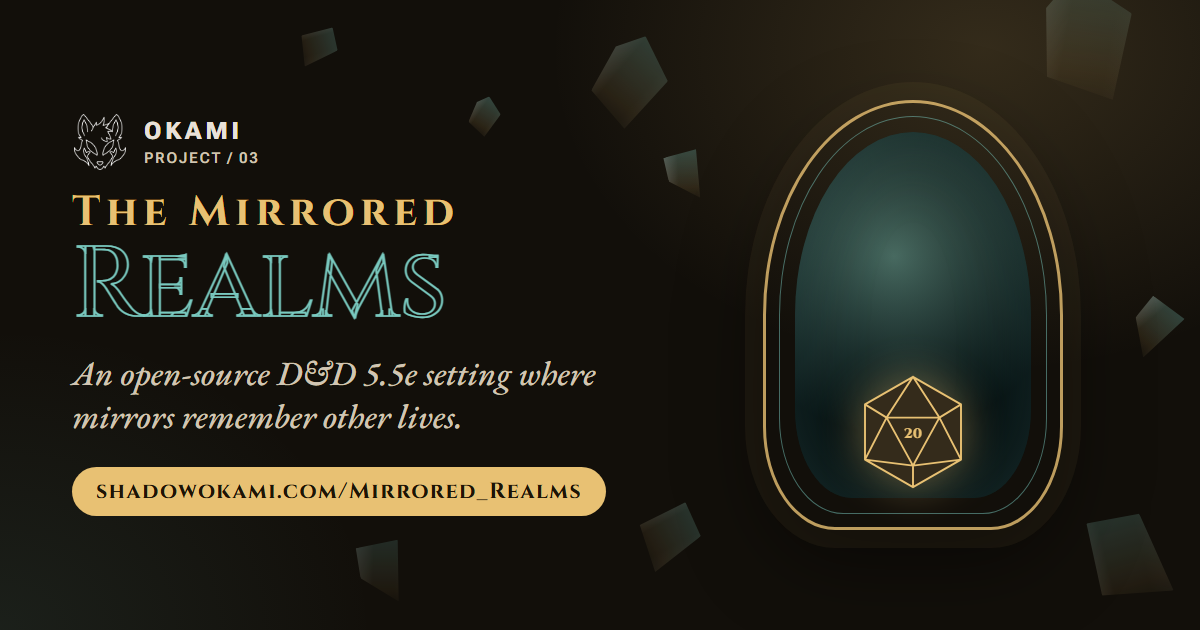
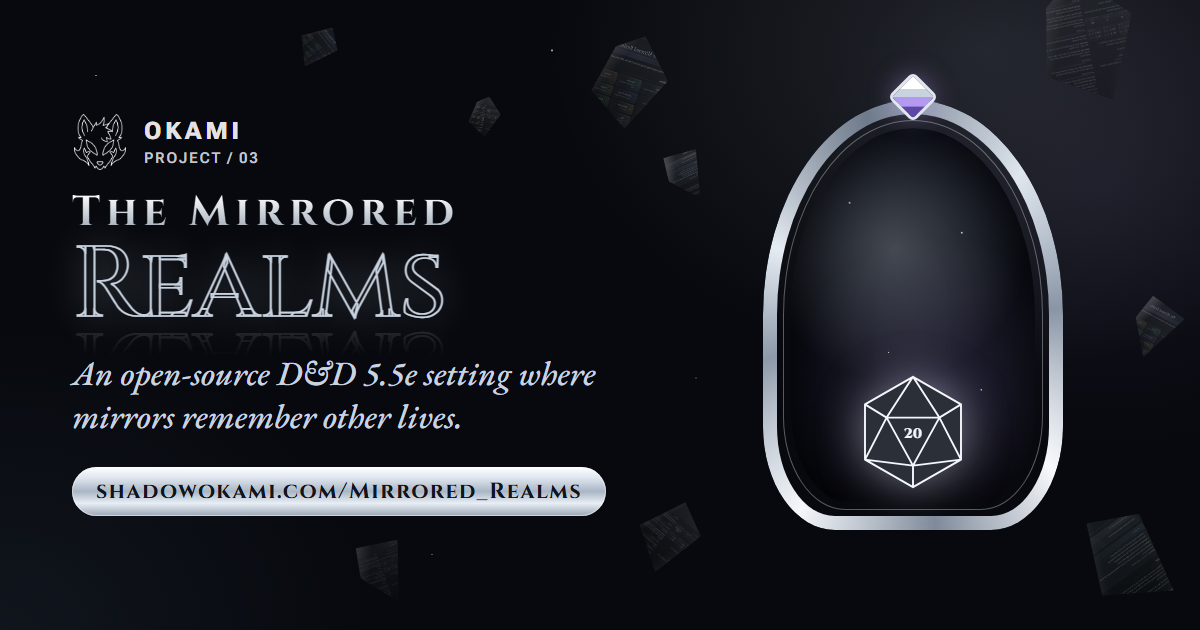
Homepage: The Mirrored Realms card and share image in brushed silver
The project card now shows the silver standing mirror with its crown gem, an endless corridor in the glass, a crack on hover and shards that reflect the vault, with a silver wordmark, badge and button, an extra line about Atlas VTT and Mirrored Pages, and an Atlas VTT tag. The og-realms share image is rebuilt in the same look.

diff --git a/assets/css/home.css b/assets/css/home.css
@@ -196,7 +196,7 @@
 .project:nth-of-type(odd) .project-media { order: 2; }
 .project:hover { border-radius: var(--shape-xl-inc); background: var(--md-sys-color-surface-container-high); }
 .project-luna { --project-accent: #ff85d2; --project-on-accent: #3b0030; }
-.project-mirrorgate { --project-accent: #c9a55a; --project-on-accent: #2b1d00; }
+.project-mirrorgate { --project-accent: #c9d3e0; --project-on-accent: #10141c; }
 
 .project-media {
     isolation: isolate;
@@ -264,15 +264,95 @@
 .luna-media { display: grid; place-items: center; background: radial-gradient(circle at 50% 42%, rgb(255 145 219 / .25), transparent 32%), linear-gradient(145deg, #150d1a, #26142b); }
 .luna-media > img { width: min(66%, 300px); height: auto; object-fit: contain; filter: drop-shadow(0 22px 40px rgb(255 128 203 / .16)); }
 .project:hover .luna-media > img { transform: scale(1.06) rotate(-3deg); }
-.mirrorgate-media { background: radial-gradient(circle at 65% 48%, rgb(79 178 167 / .18), transparent 24%), linear-gradient(135deg, #0d1212, #16110c 70%); }
+/* The Mirrored Realms: a standing mirror in brushed silver under a night
+   sky, with shards drifting past that still reflect pieces of the vault. */
+.mirrorgate-media {
+    background:
+        radial-gradient(1px 1px at 12% 18%, #fff, transparent), radial-gradient(1px 1px at 30% 62%, rgb(255 255 255 / .7), transparent),
+        radial-gradient(1.4px 1.4px at 48% 12%, #fff, transparent), radial-gradient(1px 1px at 88% 22%, rgb(220 228 255 / .8), transparent),
+        radial-gradient(1px 1px at 92% 78%, rgb(255 255 255 / .6), transparent), radial-gradient(1px 1px at 20% 84%, rgb(255 255 255 / .5), transparent),
+        radial-gradient(circle at 64% 44%, rgb(201 211 224 / .16), transparent 30%),
+        radial-gradient(circle at 70% 60%, rgb(179 154 240 / .1), transparent 36%),
+        linear-gradient(135deg, #0b0e15, #06070b 70%);
+}
 .mirror-card-art { position: absolute; inset: 0; z-index: 2; }
-.mirror-card-orbit { position: absolute; top: 46%; left: 64%; width: 52%; aspect-ratio: 1; border: 1px solid rgb(145 207 198 / .28); border-radius: 50%; transform: translate(-50%, -50%) rotate(-14deg) scaleY(.36); }
-.mirror-card-door { position: absolute; top: 46%; left: 64%; width: 23%; aspect-ratio: .68; border: 2px solid #d2b36f; border-radius: 50% 50% 24% 24%; background: radial-gradient(circle at 48% 40%, rgb(94 199 185 / .35), #071113 68%); box-shadow: 0 0 0 18px rgb(210 179 111 / .035), 0 0 70px rgb(94 199 185 / .12); transform: translate(-50%, -50%); transition: box-shadow var(--spring-slow-duration) var(--spring-slow); }
-.project:hover .mirror-card-door { box-shadow: 0 0 0 26px rgb(210 179 111 / .06), 0 0 90px rgb(94 199 185 / .25); }
-.mirror-card-door i { position: absolute; top: 50%; left: 52%; width: 6px; height: 6px; border-radius: 50%; background: #f0dca9; box-shadow: 0 0 16px #f0dca9; }
-.mirror-card-wordmark { position: absolute; bottom: 22px; left: 22px; display: grid; width: min(72%, 560px); }
-.mirror-card-wordmark small { color: #91cfc6; font-size: .72rem; font-weight: 650; letter-spacing: .1em; text-transform: uppercase; }
-.mirror-card-wordmark strong { margin-top: 6px; color: #f3e6c4; font: 500 clamp(2rem, 4vw, 3.8rem)/.95 "Palatino Linotype", Georgia, serif; letter-spacing: -.005em; text-wrap: balance; }
+.mirror-card-door { position: absolute; top: 44%; left: 66%; width: 22%; aspect-ratio: .68; transform: translate(-50%, -50%); transition: transform var(--spring-slow-duration) var(--spring-slow); }
+.project:hover .mirror-card-door { transform: translate(-50%, -52%) scale(1.03); }
+/* the frame: a ring of brushed silver */
+.mirror-card-door::before {
+    position: absolute;
+    inset: 0;
+    padding: 7px;
+    border-radius: 50% 50% 24% 24%;
+    content: "";
+    background: conic-gradient(from 210deg, #f4f7fb, #8d99a9 12%, #e6ecf3 24%, #6f7b8b 38%, #dfe6ee 52%, #8995a5 66%, #f7f9fc 80%, #7f8b9b 90%, #f4f7fb);
+    -webkit-mask: linear-gradient(#000 0 0) content-box exclude, linear-gradient(#000 0 0);
+    mask: linear-gradient(#000 0 0) content-box exclude, linear-gradient(#000 0 0);
+    filter: drop-shadow(0 0 16px rgb(201 211 224 / .4));
+}
+.mcd-glass {
+    position: absolute;
+    inset: 11px;
+    overflow: hidden;
+    border-radius: 50% 50% 22% 22%;
+    background:
+        radial-gradient(1px 1px at 30% 24%, #fff, transparent), radial-gradient(1px 1px at 70% 30%, #fff, transparent), radial-gradient(1px 1px at 52% 70%, rgb(255 255 255 / .7), transparent),
+        radial-gradient(circle at 42% 34%, rgb(201 211 224 / .3), transparent 46%),
+        radial-gradient(circle at 60% 72%, rgb(179 154 240 / .2), transparent 52%),
+        linear-gradient(180deg, #0e131d, #05060b);
+    box-shadow: inset 0 0 40px rgb(0 0 0 / .7);
+}
+/* an endless corridor of doors inside the glass */
+.mcd-glass i { position: absolute; inset: 0; margin: auto; width: var(--d); height: var(--d); border: 1px solid rgb(201 211 224 / .3); border-radius: 50% 50% 24% 24%; opacity: var(--o); }
+.mcd-glass i:nth-child(1) { --d: 74%; --o: .6; }
+.mcd-glass i:nth-child(2) { --d: 50%; --o: .38; }
+.mcd-glass i:nth-child(3) { --d: 28%; --o: .2; }
+.mcd-glass svg { position: absolute; inset: 0; width: 100%; height: 100%; fill: none; stroke: #f4f7fb; stroke-width: .9; stroke-linecap: round; opacity: 0; filter: drop-shadow(0 0 2px #fff); transition: opacity 500ms var(--effects); }
+.project:hover .mcd-glass svg { opacity: .75; }
+/* a sheen sweeps the glass on hover */
+.mcd-glass::after { position: absolute; inset: 0; content: ""; background: linear-gradient(115deg, transparent 35%, rgb(255 255 255 / .16) 48%, transparent 58%); transform: translateX(-110%); transition: transform 1200ms var(--effects); }
+.project:hover .mcd-glass::after { transform: translateX(110%); }
+.mcd-crown { position: absolute; top: -11px; left: 50%; width: 18px; height: 18px; translate: -50% 0; rotate: 45deg; border-radius: 2px; background: linear-gradient(135deg, #fff 0 30%, #c9d3e0 31% 50%, #b39af0 51% 72%, #5f47a8 73%); box-shadow: 0 0 0 2px #dfe6ee, 0 0 18px rgb(179 154 240 / .55); }
+.mcd-stud { position: absolute; top: 52%; width: 8px; height: 8px; rotate: 45deg; background: linear-gradient(135deg, #fff 0 45%, #8d99a9 46%); box-shadow: 0 0 8px rgb(201 211 224 / .6); }
+.mcd-stud-l { left: -4px; }
+.mcd-stud-r { right: -4px; }
+/* shards of the broken mirror, still showing the vault */
+.mirror-card-shards i {
+    position: absolute;
+    width: var(--s);
+    height: calc(var(--s) * 1.3);
+    background:
+        linear-gradient(112deg, rgb(255 255 255 / .45), transparent 30%, transparent 70%, rgb(255 255 255 / .15)),
+        linear-gradient(200deg, rgb(201 211 224 / .18), rgb(5 7 12 / .35)),
+        url("../images/realms/reflections.webp") var(--x) var(--y) / 400% 200% no-repeat;
+    clip-path: polygon(38% 0, 100% 22%, 78% 100%, 0 64%);
+    opacity: .7;
+    animation: card-shard 9s ease-in-out infinite alternate;
+}
+.mirror-card-shards i:nth-child(1) { --s: 58px; --x: 0%; --y: 0%; top: 14%; left: 40%; rotate: -18deg; }
+.mirror-card-shards i:nth-child(2) { --s: 40px; --x: 66.667%; --y: 0%; top: 64%; left: 44%; rotate: 24deg; animation-delay: -3s; clip-path: polygon(50% 0, 100% 38%, 62% 100%, 0 72%, 14% 20%); }
+.mirror-card-shards i:nth-child(3) { --s: 50px; --x: 33.333%; --y: 100%; top: 18%; left: 84%; rotate: 32deg; animation-delay: -5s; clip-path: polygon(12% 0, 100% 10%, 58% 100%, 0 46%); }
+.mirror-card-shards i:nth-child(4) { --s: 30px; --x: 100%; --y: 100%; top: 70%; left: 86%; rotate: -12deg; animation-delay: -1s; }
+.mirror-card-shards i:nth-child(5) { --s: 24px; --x: 0%; --y: 100%; top: 8%; left: 62%; rotate: 50deg; animation-delay: -7s; clip-path: polygon(64% 0, 100% 58%, 30% 100%, 0 28%); }
+@keyframes card-shard { to { translate: 0 -12px; rotate: calc(var(--r, 0deg) + 8deg); } }
+.mirror-card-wordmark { position: absolute; bottom: 30px; left: 24px; display: grid; width: min(72%, 560px); }
+.mirror-card-wordmark small { color: #9aa6b4; font-size: .72rem; font-weight: 650; letter-spacing: .14em; text-transform: uppercase; }
+.mirror-card-wordmark strong {
+    margin-top: 6px;
+    font: 500 clamp(2rem, 4vw, 3.8rem)/.95 "Palatino Linotype", Georgia, serif;
+    letter-spacing: -.005em;
+    text-wrap: balance;
+    color: #f4f7fb;
+    background: linear-gradient(180deg, #ffffff 0%, #e3e9f1 40%, #9aa6b4 100%);
+    -webkit-background-clip: text;
+    background-clip: text;
+    -webkit-text-fill-color: transparent;
+    -webkit-box-reflect: below -.1em linear-gradient(transparent 62%, rgb(0 0 0 / .18));
+}
+.project-mirrorgate .project-open { color: #10141c; background: linear-gradient(180deg, #ffffff 0%, #dfe6ef 22%, #aab6c5 50%, #e8eef5 74%, #9aa6b4 100%); box-shadow: inset 0 0 0 1px rgb(255 255 255 / .4), 0 8px 24px -8px rgb(201 211 224 / .6); }
+.project-mirrorgate .project-number { color: #10141c; background: linear-gradient(150deg, #fff 0 22%, #d5dde7 23% 50%, #9eaabb 51% 100%); }
+.project-mirrorgate .project-extra { margin-top: -6px; color: var(--muted); font-size: .95rem; }
+@media (prefers-reduced-motion: reduce) { .mirror-card-shards i { animation: none; } }
 
 /* ─── Contact ────────────────────────────────────────────────────────────── */
 

diff --git a/tools/og-card.html b/tools/og-card.html
@@ -83,30 +83,51 @@
         .luna-page .main { clip-path: var(--shape-cookie6); transform: none; }
         .luna-page .mark > img { width: 74%; }
 
-        /* The Mirrored Realms: the grimoire – serif type, gold, the mirror and its d20. */
+        /* The Mirrored Realms: brushed silver on slate, as on the page and in the vault's theme. */
         .mirrorgate-page {
-            --gold: #e8c173;
-            --teal: #79c9bf;
+            --silver-hi: #f4f7fb;
+            --silver: #c9d3e0;
+            --silver-lo: #9aa6b4;
+            --amethyst: #b39af0;
             background:
-                radial-gradient(620px 460px at 82% 8%, color-mix(in srgb, var(--gold) 16%, transparent), transparent 70%),
-                radial-gradient(520px 420px at 0% 100%, color-mix(in srgb, var(--teal) 9%, transparent), transparent 72%),
-                #120f0a;
+                radial-gradient(1px 1px at 8% 12%, #fff, transparent), radial-gradient(1.4px 1.4px at 46% 8%, #fff, transparent),
+                radial-gradient(1px 1px at 36% 88%, rgb(255 255 255 / .6), transparent), radial-gradient(1px 1px at 58% 60%, rgb(255 255 255 / .5), transparent),
+                radial-gradient(620px 460px at 82% 8%, color-mix(in srgb, var(--silver) 13%, transparent), transparent 70%),
+                radial-gradient(420px 360px at 92% 30%, color-mix(in srgb, var(--amethyst) 8%, transparent), transparent 72%),
+                radial-gradient(520px 420px at 0% 100%, color-mix(in srgb, #8fb6e0 7%, transparent), transparent 72%),
+                #07090e;
             font-family: "EB Garamond", Georgia, serif;
         }
         .mirrorgate-page .brand { font-family: "Roboto Flex", sans-serif; }
         .mirrorgate-page h1 { font-family: "Cinzel", serif; font-size: 100px; font-stretch: normal; font-weight: 600; line-height: .92; text-transform: none; }
-        .mirrorgate-page h1 em { display: block; margin-bottom: 8px; color: var(--gold); font-size: .42em; font-style: normal; font-weight: 700; letter-spacing: .14em; }
-        .mirrorgate-page h1 span { color: transparent; font-weight: 500; -webkit-text-stroke: 1.6px var(--teal); }
-        .mirrorgate-page .tagline { font-size: 34px; font-style: italic; }
-        .mirrorgate-page .url { color: #1d1405; background: var(--gold); font-family: "Cinzel", serif; font-size: 22px; letter-spacing: .06em; }
+        .mirrorgate-page h1 em { display: block; margin-bottom: 8px; font-size: .42em; font-style: normal; font-weight: 700; letter-spacing: .14em; color: var(--silver-hi); background: linear-gradient(180deg, #fff, var(--silver-lo)); -webkit-background-clip: text; background-clip: text; -webkit-text-fill-color: transparent; }
+        .mirrorgate-page h1 span { display: inline-block; color: transparent; font-weight: 500; -webkit-text-stroke: 1.6px var(--silver); text-shadow: 0 0 40px color-mix(in srgb, var(--silver) 30%, transparent); -webkit-box-reflect: below -14px linear-gradient(transparent 58%, rgb(0 0 0 / .22)); }
+        .mirrorgate-page .tagline { font-size: 34px; font-style: italic; color: var(--silver); }
+        .mirrorgate-page .url { color: #10141c; background: linear-gradient(180deg, #ffffff 0%, #dfe6ef 22%, #aab6c5 50%, #e8eef5 74%, #9aa6b4 100%); box-shadow: inset 0 0 0 1px rgb(255 255 255 / .5); font-family: "Cinzel", serif; font-size: 22px; letter-spacing: .06em; }
         .mirrorgate-page .mark i,
         .mirrorgate-page .mark > img { display: none; }
         .mirrorgate-page .portal { position: relative; display: block; width: 300px; height: 430px; }
         .portal b { position: absolute; display: block; border-radius: 50% 50% 24% 24%; }
-        .portal .outer { inset: 0; border: 3px solid color-mix(in srgb, var(--gold) 80%, transparent); box-shadow: 0 0 0 18px color-mix(in srgb, var(--gold) 5%, transparent), 0 30px 80px rgb(0 0 0 / .5); }
-        .portal .inner { inset: 16px; border: 1.5px solid color-mix(in srgb, var(--teal) 50%, transparent); }
-        .portal .surface { inset: 32px; background: radial-gradient(circle at 42% 34%, color-mix(in srgb, var(--teal) 46%, transparent), rgb(5 15 16 / .96) 64%); box-shadow: inset 0 0 80px color-mix(in srgb, var(--teal) 16%, transparent); }
-        /* Splinters of the mirror, as on the page. */
+        .portal .outer {
+            inset: 0;
+            padding: 14px;
+            background: conic-gradient(from 210deg, #f4f7fb, #8d99a9 12%, #e6ecf3 24%, #6f7b8b 38%, #dfe6ee 52%, #8995a5 66%, #f7f9fc 80%, #7f8b9b 90%, #f4f7fb);
+            -webkit-mask: linear-gradient(#000 0 0) content-box exclude, linear-gradient(#000 0 0);
+            mask: linear-gradient(#000 0 0) content-box exclude, linear-gradient(#000 0 0);
+            filter: drop-shadow(0 0 26px rgb(201 211 224 / .45));
+        }
+        .portal .inner { inset: 20px; border: 1.5px solid rgb(244 247 251 / .35); }
+        .portal .surface {
+            inset: 28px;
+            background:
+                radial-gradient(1.4px 1.4px at 24% 20%, #fff, transparent), radial-gradient(1.4px 1.4px at 70% 28%, #fff, transparent), radial-gradient(1px 1px at 40% 60%, rgb(255 255 255 / .8), transparent), radial-gradient(1.2px 1.2px at 78% 70%, #fff, transparent),
+                radial-gradient(circle at 42% 32%, color-mix(in srgb, var(--silver) 30%, transparent), transparent 46%),
+                radial-gradient(circle at 60% 72%, color-mix(in srgb, var(--amethyst) 18%, transparent), transparent 52%),
+                linear-gradient(180deg, #0d111a, #05060b);
+            box-shadow: inset 0 0 70px rgb(0 0 0 / .7);
+        }
+        .portal::before { position: absolute; top: -18px; left: 50%; z-index: 2; width: 30px; height: 30px; margin-left: -15px; content: ""; transform: rotate(45deg); border-radius: 3px; background: linear-gradient(135deg, #fff 0 30%, #c9d3e0 31% 50%, #b39af0 51% 72%, #5f47a8 73%); box-shadow: 0 0 0 3px #dfe6ee, 0 0 26px rgb(179 154 240 / .6); }
+        /* Splinters of the mirror, each still showing a piece of the vault. */
         .mirrorgate-page .shards { position: absolute; inset: 0; z-index: 0; display: block; }
         .shards s {
             position: absolute;
@@ -114,18 +135,23 @@
             width: var(--w);
             height: calc(var(--w) * 1.35);
             background:
-                linear-gradient(112deg, rgb(255 255 255 / .34), transparent 34%, transparent 66%, rgb(255 255 255 / .1)),
-                linear-gradient(200deg, color-mix(in srgb, var(--teal) 50%, transparent), color-mix(in srgb, var(--gold) 18%, transparent) 70%, transparent);
+                linear-gradient(112deg, rgb(255 255 255 / .45), transparent 30%, transparent 70%, rgb(255 255 255 / .15)),
+                linear-gradient(200deg, rgb(201 211 224 / .2), rgb(5 7 12 / .3)),
+                url("../assets/images/realms/reflections.webp") var(--sx, 0%) var(--sy, 0%) / 400% 200% no-repeat;
             clip-path: polygon(38% 0, 100% 22%, 78% 100%, 0 64%);
             opacity: var(--o);
             transform: rotate(var(--r));
         }
         .shards s:nth-child(3n + 1) { clip-path: polygon(50% 0, 100% 38%, 62% 100%, 0 72%, 14% 20%); }
         .shards s:nth-child(3n + 2) { clip-path: polygon(12% 0, 100% 10%, 58% 100%, 0 46%); }
-        .d20 { position: absolute; bottom: 38px; left: 50%; width: 120px; height: 120px; margin-left: -60px; overflow: visible; filter: drop-shadow(0 0 22px color-mix(in srgb, var(--gold) 45%, transparent)); }
-        .d20 .face { fill: color-mix(in srgb, var(--gold) 16%, #120f0a); }
-        .d20 .edge { fill: none; stroke: var(--gold); stroke-width: 1.6; stroke-linejoin: round; }
-        .d20 text { fill: var(--gold); font-family: "Cinzel", serif; font-size: 11.5px; font-weight: 800; text-anchor: middle; }
+        .shards s:nth-child(4n + 1) { --sx: 0%; --sy: 0%; }
+        .shards s:nth-child(4n + 2) { --sx: 66.667%; --sy: 0%; }
+        .shards s:nth-child(4n + 3) { --sx: 33.333%; --sy: 100%; }
+        .shards s:nth-child(4n) { --sx: 100%; --sy: 100%; }
+        .d20 { position: absolute; bottom: 38px; left: 50%; width: 120px; height: 120px; margin-left: -60px; overflow: visible; filter: drop-shadow(0 0 22px rgb(201 211 224 / .5)); }
+        .d20 .face { fill: color-mix(in srgb, var(--silver) 16%, #0d1018); }
+        .d20 .edge { fill: none; stroke: var(--silver-hi); stroke-width: 1.6; stroke-linejoin: round; }
+        .d20 text { fill: var(--silver-hi); font-family: "Cinzel", serif; font-size: 11.5px; font-weight: 800; text-anchor: middle; }
     </style>
 </head>
 <body>

diff --git a/index.html b/index.html
@@ -27,7 +27,7 @@
     <link rel="stylesheet" href="assets/css/tokens.css?v=2">
     <link rel="stylesheet" href="assets/css/shapes.css?v=3">
     <link rel="stylesheet" href="assets/css/base.css?v=7">
-    <link rel="stylesheet" href="assets/css/home.css?v=6">
+    <link rel="stylesheet" href="assets/css/home.css?v=7">
     <link rel="stylesheet" href="assets/css/motion.css?v=5">
     <script src="assets/js/head.js?v=2"></script>
 </head>
@@ -148,8 +148,8 @@
             <article class="project project-mirrorgate reveal">
                 <a class="project-media mirrorgate-media" href="/Mirrored_Realms" aria-label="Enter The Mirrored Realms project">
                     <div class="mirror-card-art" aria-hidden="true">
-                        <span class="mirror-card-orbit"></span>
-                        <span class="mirror-card-door"><i></i></span>
+                        <span class="mirror-card-shards"><i></i><i></i><i></i><i></i><i></i></span>
+                        <span class="mirror-card-door"><span class="mcd-glass"><i></i><i></i><i></i><svg viewBox="0 0 100 140" preserveAspectRatio="none"><path d="M60 40 52 30 48 14M60 40 74 36 92 28M60 40 63 56 58 76M60 40 46 48 30 46M52 30 44 26"/></svg></span><span class="mcd-crown"></span><span class="mcd-stud mcd-stud-l"></span><span class="mcd-stud mcd-stud-r"></span></span>
                         <span class="mirror-card-wordmark"><small>Open-source world setting</small><strong>The Mirrored Realms</strong></span>
                     </div>
                     <span class="project-open">Enter the vault <b aria-hidden="true">↗</b></span>
@@ -159,7 +159,8 @@
                     <p class="project-type">Tabletop / open-source setting</p>
                     <h3>The Mirrored Realms</h3>
                     <p>The Mirrored Realms is an open-source D&amp;D 5.5e setting disguised as an Obsidian vault, where broken time, royal lies, and watchful reflections all lead somewhere deeper.</p>
-                    <div class="tag-list"><span>D&amp;D 5.5e</span><span>Obsidian</span><span>Worldbuilding</span></div>
+                    <p class="project-extra">Written for Game Masters, with statblocks for Atlas VTT and its own silver theme, Mirrored Pages. Knock on the mirror when you get there.</p>
+                    <div class="tag-list"><span>D&amp;D 5.5e</span><span>Obsidian</span><span>Atlas VTT</span><span>Worldbuilding</span></div>
                 </div>
             </article>
         </section>
@@ -239,7 +240,7 @@
         </span>
     </footer>
 
-    <script src="assets/js/translations.js?v=35"></script>
+    <script src="assets/js/translations.js?v=36"></script>
     <script src="assets/js/script.js?v=12"></script>
     <script src="assets/js/motion.js?v=4"></script>
 </body>

diff --git a/pages/mirrorgate.html b/pages/mirrorgate.html
@@ -11,12 +11,12 @@
     <meta property="og:description" content="Enter Kagameru, an evolving open-source 5.5e-compatible setting where roads arrive in the wrong century and mirrors open toward places no map can contain.">
     <meta property="og:site_name" content="Okami">
     <meta property="og:url" content="https://shadowokami.com/Mirrored_Realms">
-    <meta property="og:image" content="https://shadowokami.com/assets/images/og-realms.png?v=3">
+    <meta property="og:image" content="https://shadowokami.com/assets/images/og-realms.png?v=4">
     <meta property="og:image:type" content="image/png">
     <meta property="og:image:width" content="1200">
     <meta property="og:image:height" content="630">
     <meta name="twitter:card" content="summary_large_image">
-    <meta name="twitter:image" content="https://shadowokami.com/assets/images/og-realms.png?v=3">
+    <meta name="twitter:image" content="https://shadowokami.com/assets/images/og-realms.png?v=4">
     <link rel="canonical" href="https://shadowokami.com/Mirrored_Realms">
     <link rel="icon" type="image/png" sizes="32x32" href="../assets/favicon-32x32.png?v=1">
     <link rel="icon" type="image/png" sizes="16x16" href="../assets/favicon-16x16.png?v=1">
@@ -322,7 +322,7 @@
     <footer class="site-footer">
         <span class="footer-copyright"><strong>© <span data-year>2026</span> SHADOWOKAMI</strong><small>Site content unless credited otherwise. Project code follows its repository license.</small><a class="footer-legal" href="/Impressum">Impressum</a></span><span class="footer-motto">THE MIRRORED REALMS / PROJECT 03</span><span class="footer-links"><a href="/Mirrored_Realms/Terms">Terms</a></span><a href="#overview">Back to top ↑</a>
     </footer>
-    <script src="../assets/js/translations.js?v=35"></script>
+    <script src="../assets/js/translations.js?v=36"></script>
     <script src="../assets/js/script.js?v=12"></script>
     <script src="../assets/js/motion.js?v=5"></script>
     <script src="../assets/js/die3d.js?v=4"></script>

diff --git a/pages/mirrorgate-terms.html b/pages/mirrorgate-terms.html
@@ -12,12 +12,12 @@
     <meta property="og:description" content="How you may use, change, and share The Mirrored Realms, and how to credit it.">
     <meta property="og:site_name" content="Okami">
     <meta property="og:url" content="https://shadowokami.com/Mirrored_Realms/Terms">
-    <meta property="og:image" content="https://shadowokami.com/assets/images/og-realms.png?v=3">
+    <meta property="og:image" content="https://shadowokami.com/assets/images/og-realms.png?v=4">
     <meta property="og:image:type" content="image/png">
     <meta property="og:image:width" content="1200">
     <meta property="og:image:height" content="630">
     <meta name="twitter:card" content="summary_large_image">
-    <meta name="twitter:image" content="https://shadowokami.com/assets/images/og-realms.png?v=3">
+    <meta name="twitter:image" content="https://shadowokami.com/assets/images/og-realms.png?v=4">
     <link rel="canonical" href="https://shadowokami.com/Mirrored_Realms/Terms">
     <link rel="icon" type="image/png" sizes="32x32" href="../assets/favicon-32x32.png?v=1">
     <link rel="icon" type="image/png" sizes="16x16" href="../assets/favicon-16x16.png?v=1">
@@ -197,7 +197,7 @@
         <span class="footer-links"><a href="/Mirrored_Realms">The Mirrored Realms</a><a href="https://github.com/ShadowOkami4/Mirrorgate" target="_blank" rel="noopener noreferrer">Repository ↗</a></span>
         <a href="#main">Back to top &uarr;</a>
     </footer>
-    <script src="../assets/js/translations.js?v=35"></script>
+    <script src="../assets/js/translations.js?v=36"></script>
     <script src="../assets/js/script.js?v=12"></script>
     <script src="../assets/js/motion.js?v=5"></script>
 </body>

diff --git a/pages/lunaecho.html b/pages/lunaecho.html
@@ -250,7 +250,7 @@
     </main>
 
     <footer class="site-footer"><span class="footer-copyright"><strong>&copy; <span data-year>2026</span> SHADOWOKAMI</strong><small>Site content unless credited otherwise. Project code follows its repository license.</small><a class="footer-legal" href="/Impressum">Impressum</a></span><span class="footer-links"><a href="/LunaEcho/Terms">Terms</a><a href="/LunaEcho/Privacy">Privacy</a><a href="mailto:service@shadowokami.de?subject=LunaEcho%20Data%20Request">Data request</a></span><a href="#overview">Back to top &uarr;</a></footer>
-    <script src="../assets/js/translations.js?v=35"></script>
+    <script src="../assets/js/translations.js?v=36"></script>
     <script src="../assets/js/script.js?v=12"></script>
     <script src="../assets/js/motion.js?v=4"></script>
     <script src="../assets/js/luna-pricing.js?v=1"></script>

diff --git a/pages/voidline.html b/pages/voidline.html
@@ -203,7 +203,7 @@
     <footer class="site-footer">
         <span class="footer-copyright"><strong>© <span data-year>2026</span> SHADOWOKAMI</strong><small>Site content unless credited otherwise. Project code follows its repository license.</small><a class="footer-legal" href="/Impressum">Impressum</a></span><span class="footer-motto">VOIDLINE / PROJECT 01</span><a href="#overview">Back to top ↑</a>
     </footer>
-    <script src="../assets/js/translations.js?v=35"></script>
+    <script src="../assets/js/translations.js?v=36"></script>
     <script src="../assets/js/script.js?v=12"></script>
     <script src="../assets/js/motion.js?v=4"></script>
 </body>

diff --git a/assets/js/translations.js b/assets/js/translations.js
@@ -97,6 +97,7 @@
         'Find Okami online': 'Okami online finden',
         'Voidline shell with the Action Center open': 'Voidline-Shell mit geöffnetem Action Center',
         'Hyprland desktop shell': 'Hyprland-Desktopshell',
+        'Written for Game Masters, with statblocks for Atlas VTT and its own silver theme, Mirrored Pages. Knock on the mirror when you get there.': 'Geschrieben für Spielleitungen, mit Werteblöcken für Atlas VTT und einem eigenen silbernen Theme, Mirrored Pages. Klopf an den Spiegel, wenn du dort bist.',
     };
 
     const voidline = {

diff --git a/pages/lunaecho-privacy.html b/pages/lunaecho-privacy.html
@@ -228,7 +228,7 @@
         <span class="footer-links"><a href="/LunaEcho">LunaEcho</a><a href="/LunaEcho/Terms">Terms of Service</a></span>
         <a href="#main">Back to top &uarr;</a>
     </footer>
-    <script src="../assets/js/translations.js?v=35"></script>
+    <script src="../assets/js/translations.js?v=36"></script>
     <script src="../assets/js/script.js?v=12"></script>
     <script src="../assets/js/motion.js?v=4"></script>
 </body>

diff --git a/pages/lunaecho-terms.html b/pages/lunaecho-terms.html
@@ -173,7 +173,7 @@
         <span class="footer-links"><a href="/LunaEcho">LunaEcho</a><a href="/LunaEcho/Privacy">Privacy Policy</a></span>
         <a href="#main">Back to top &uarr;</a>
     </footer>
-    <script src="../assets/js/translations.js?v=35"></script>
+    <script src="../assets/js/translations.js?v=36"></script>
     <script src="../assets/js/script.js?v=12"></script>
     <script src="../assets/js/motion.js?v=4"></script>
 </body>

diff --git a/pages/impressum.html b/pages/impressum.html
@@ -100,7 +100,7 @@
         <span class="footer-links"><a href="/LunaEcho/Terms">Terms</a><a href="/LunaEcho/Privacy">Privacy</a></span>
         <a href="#main">Back to top &uarr;</a>
     </footer>
-    <script src="../assets/js/translations.js?v=35"></script>
+    <script src="../assets/js/translations.js?v=36"></script>
     <script src="../assets/js/script.js?v=12"></script>
     <script src="../assets/js/motion.js?v=4"></script>
 </body>

diff --git a/404.html b/404.html
@@ -98,7 +98,7 @@
         <a href="/">Return home ↑</a>
     </footer>
 
-    <script src="/assets/js/translations.js?v=35"></script>
+    <script src="/assets/js/translations.js?v=36"></script>
     <script src="/assets/js/script.js?v=12"></script>
     <script src="/assets/js/motion.js?v=4"></script>
 </body>
